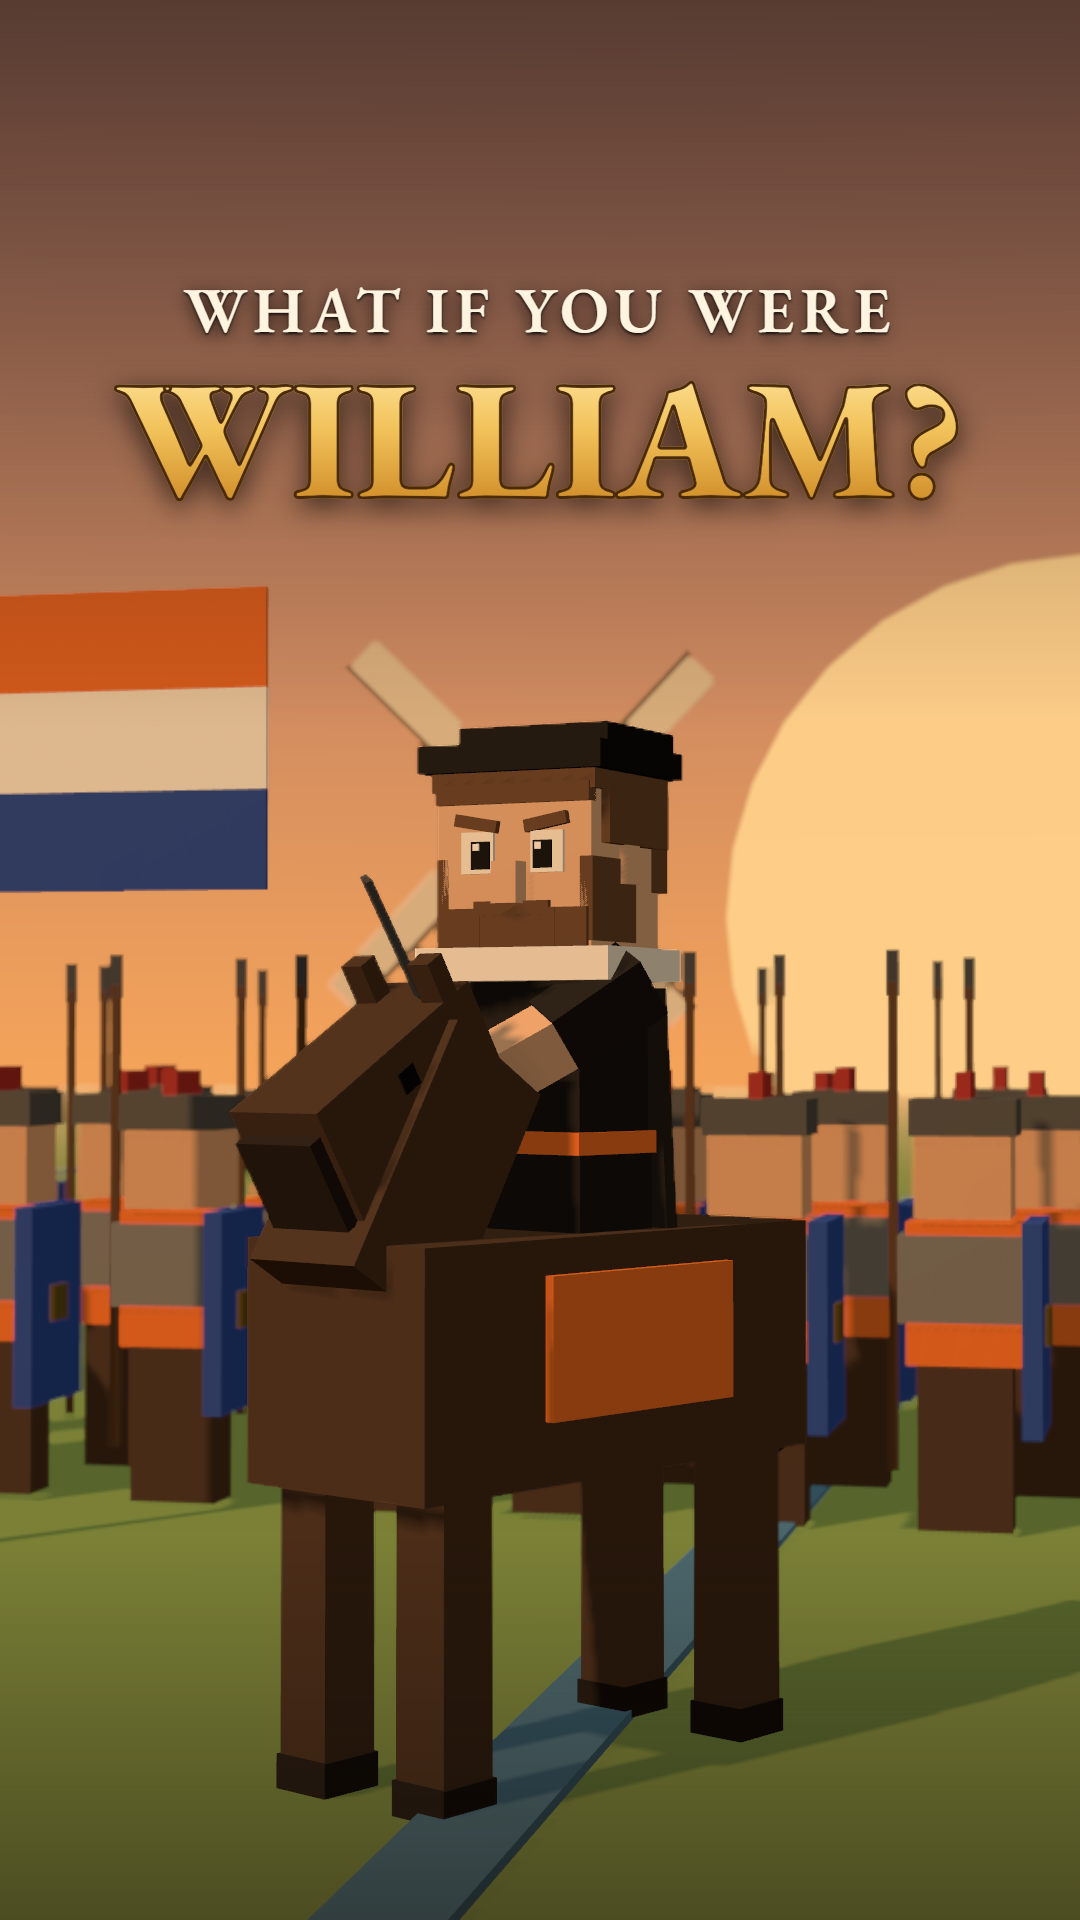
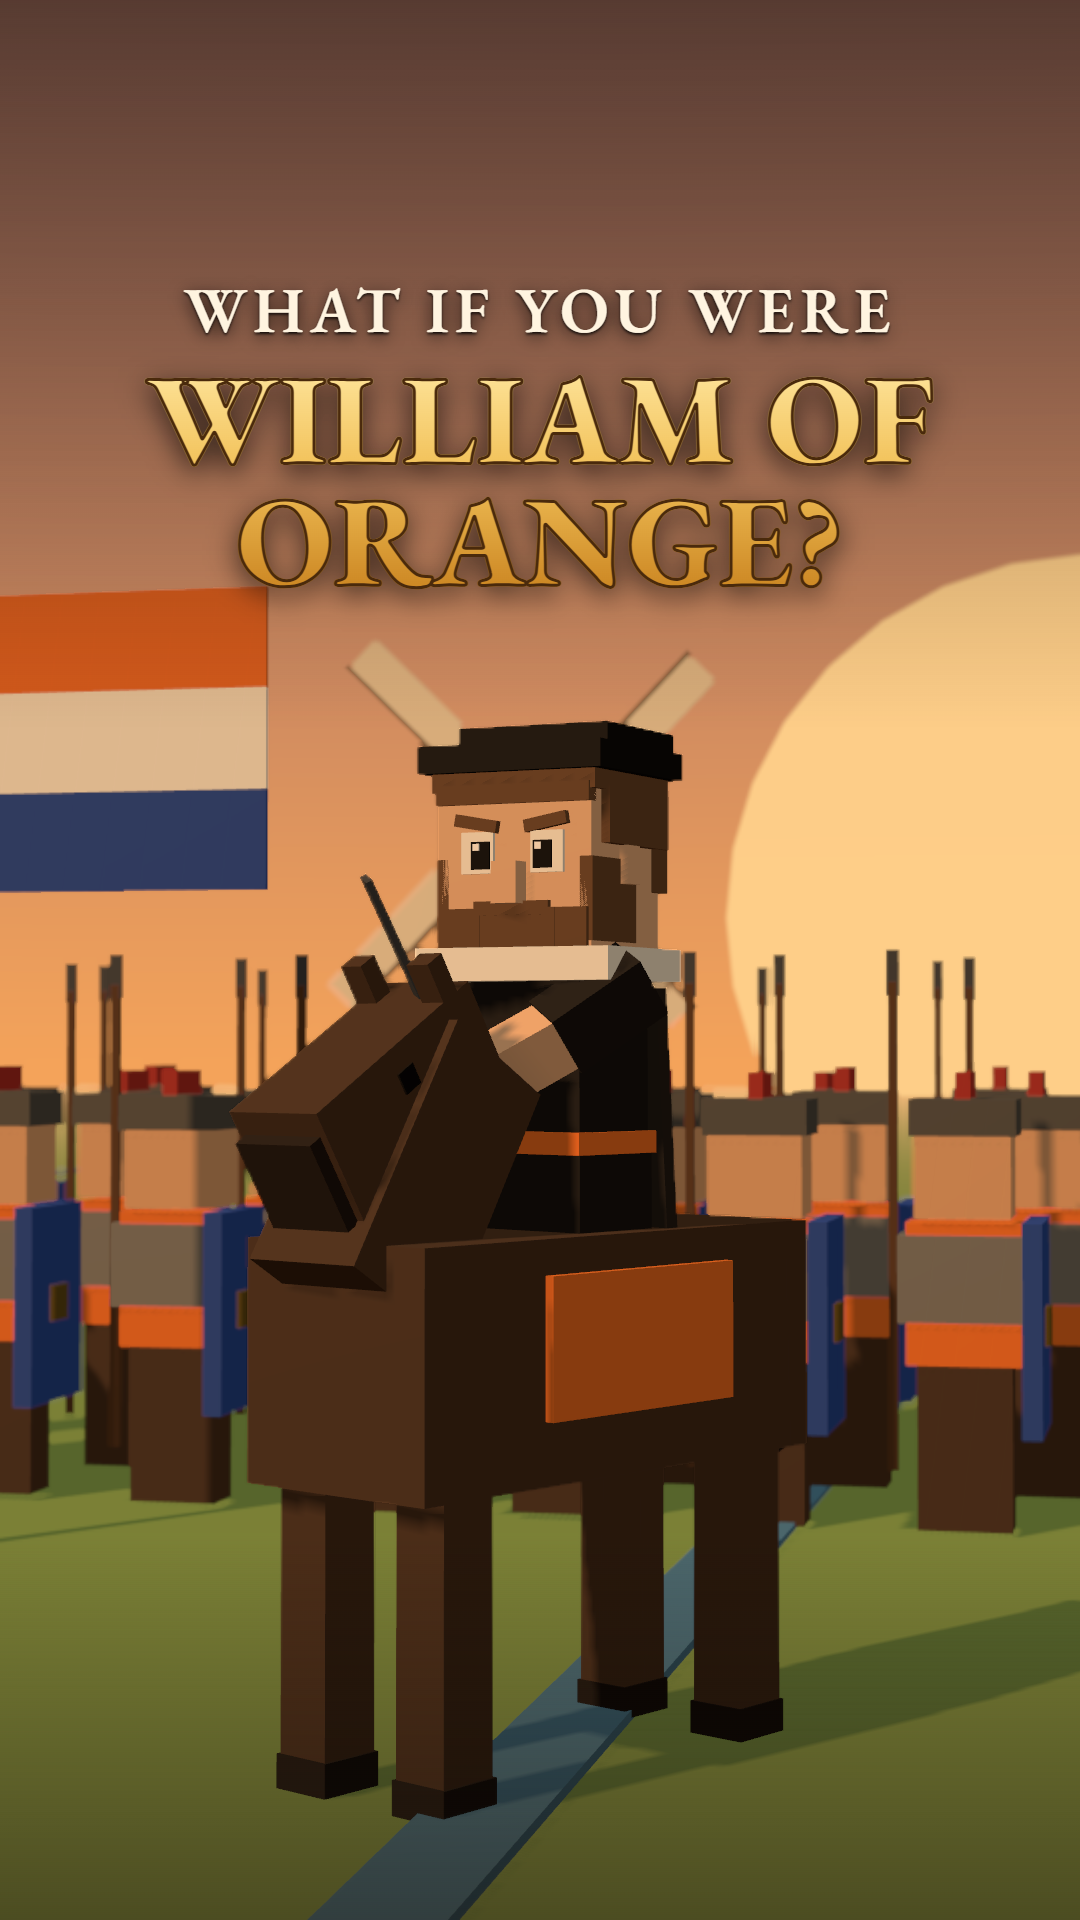
Willem cover: full name William of Orange

Changed region(s): [[0.0917, 0.1875, 0.9167, 0.3125]]

diff --git a/marketing/remotion/src/watals/Omslagen.tsx b/marketing/remotion/src/watals/Omslagen.tsx
@@ -160,7 +160,7 @@ export const OmslagBarsbek = () => (
 );
 
 export const OmslagWillem = () => (
-  <Omslag naam="WILLIAM?" grootte={170} focus={[0, 2.6, 0]}>
+  <Omslag naam="WILLIAM OF ORANGE?" grootte={128} focus={[0, 2.6, 0]}>
     <OmslagWillemScène />
   </Omslag>
 );
